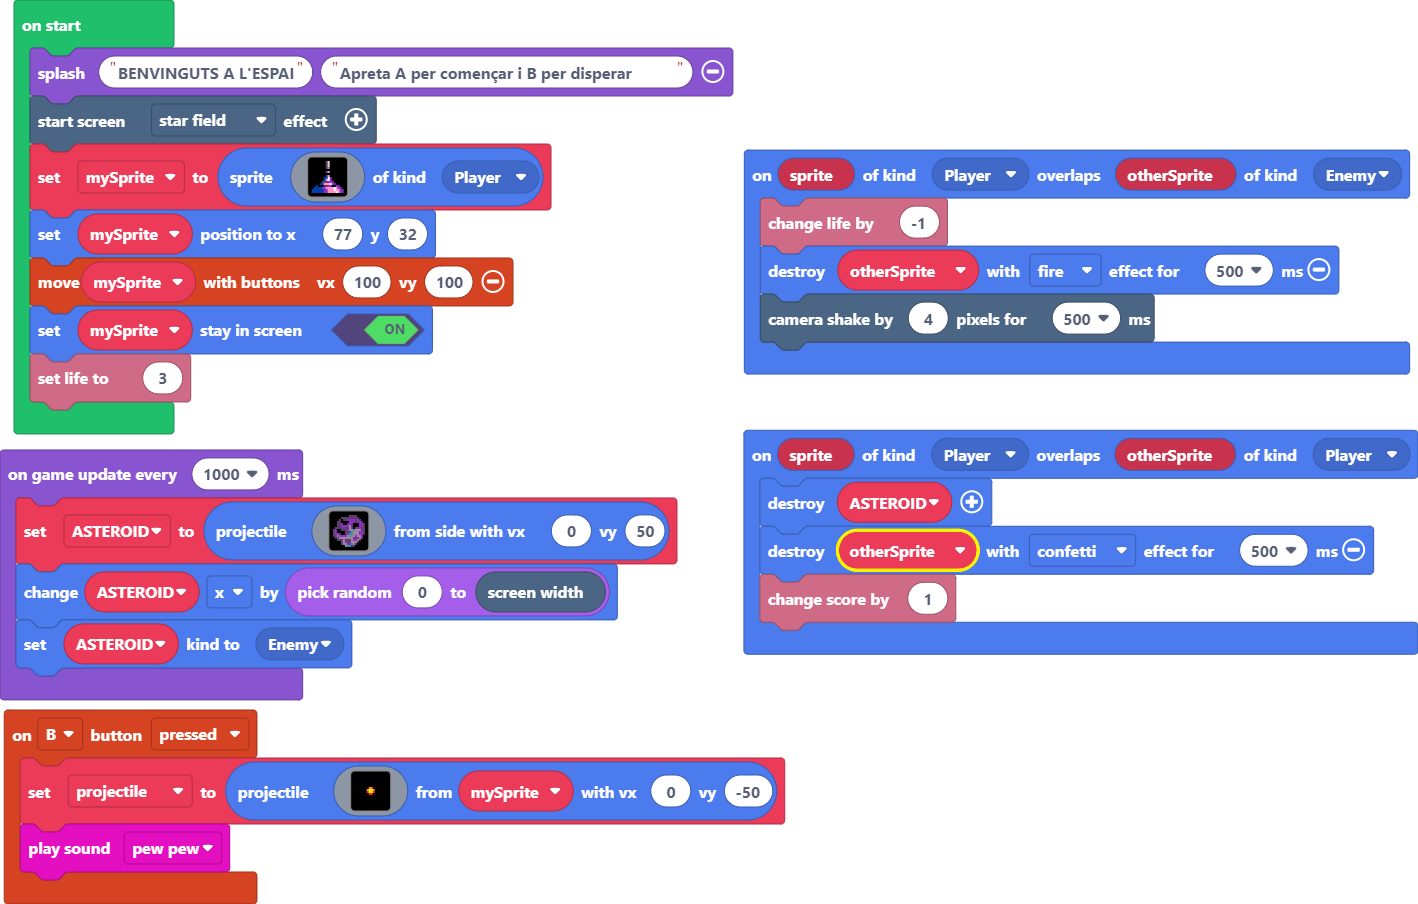
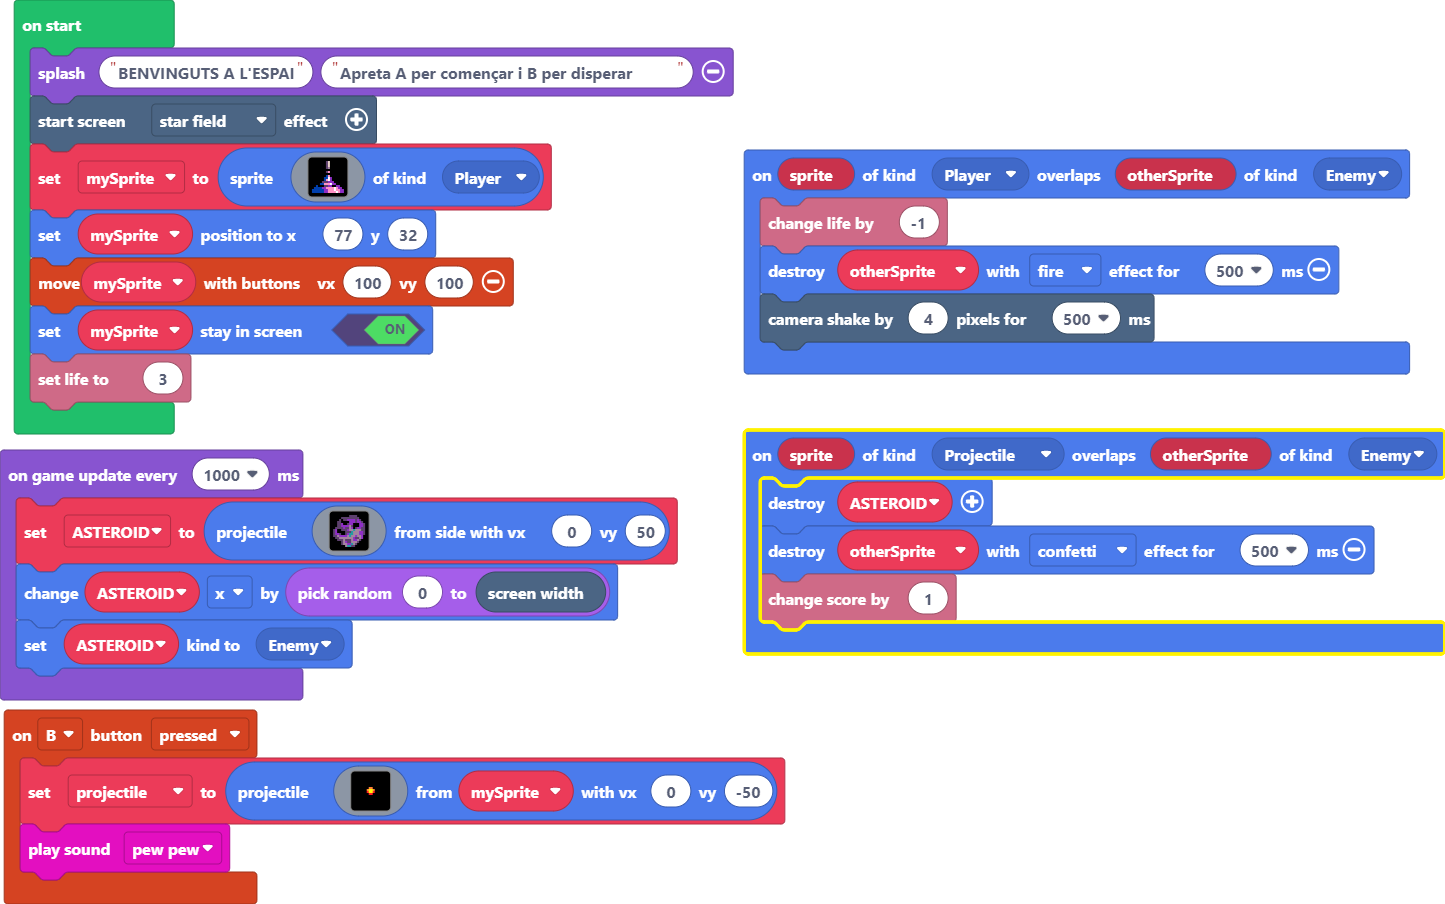
Update main.blocks, main.ts

diff --git a/main.ts b/main.ts
@@ -19,7 +19,7 @@ controller.B.onEvent(ControllerButtonEvent.Pressed, function () {
         `, mySprite, 0, -50)
     music.pewPew.play()
 })
-sprites.onOverlap(SpriteKind.Player, SpriteKind.Player, function (sprite, otherSprite) {
+sprites.onOverlap(SpriteKind.Projectile, SpriteKind.Enemy, function (sprite, otherSprite) {
     ASTEROID.destroy()
     otherSprite.destroy(effects.confetti, 500)
     info.changeScoreBy(1)
